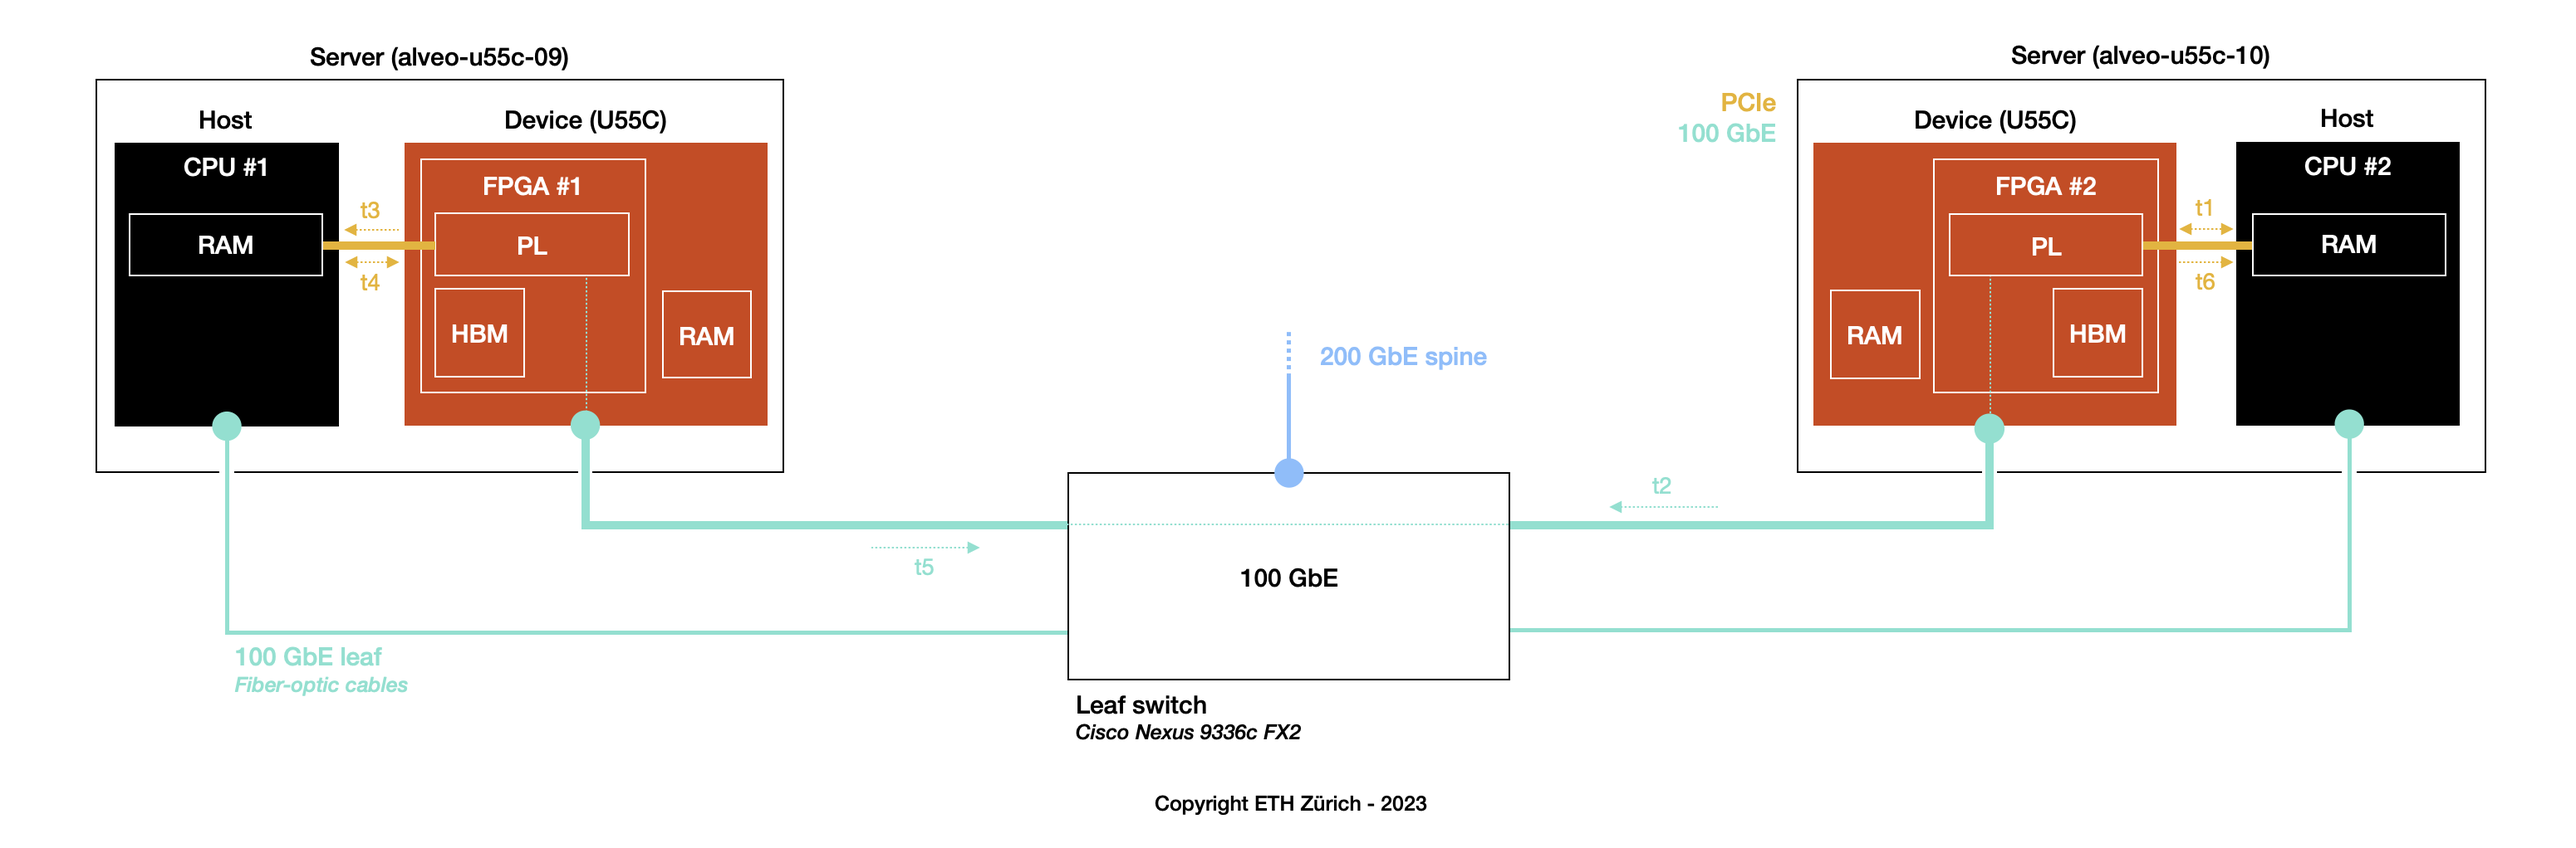
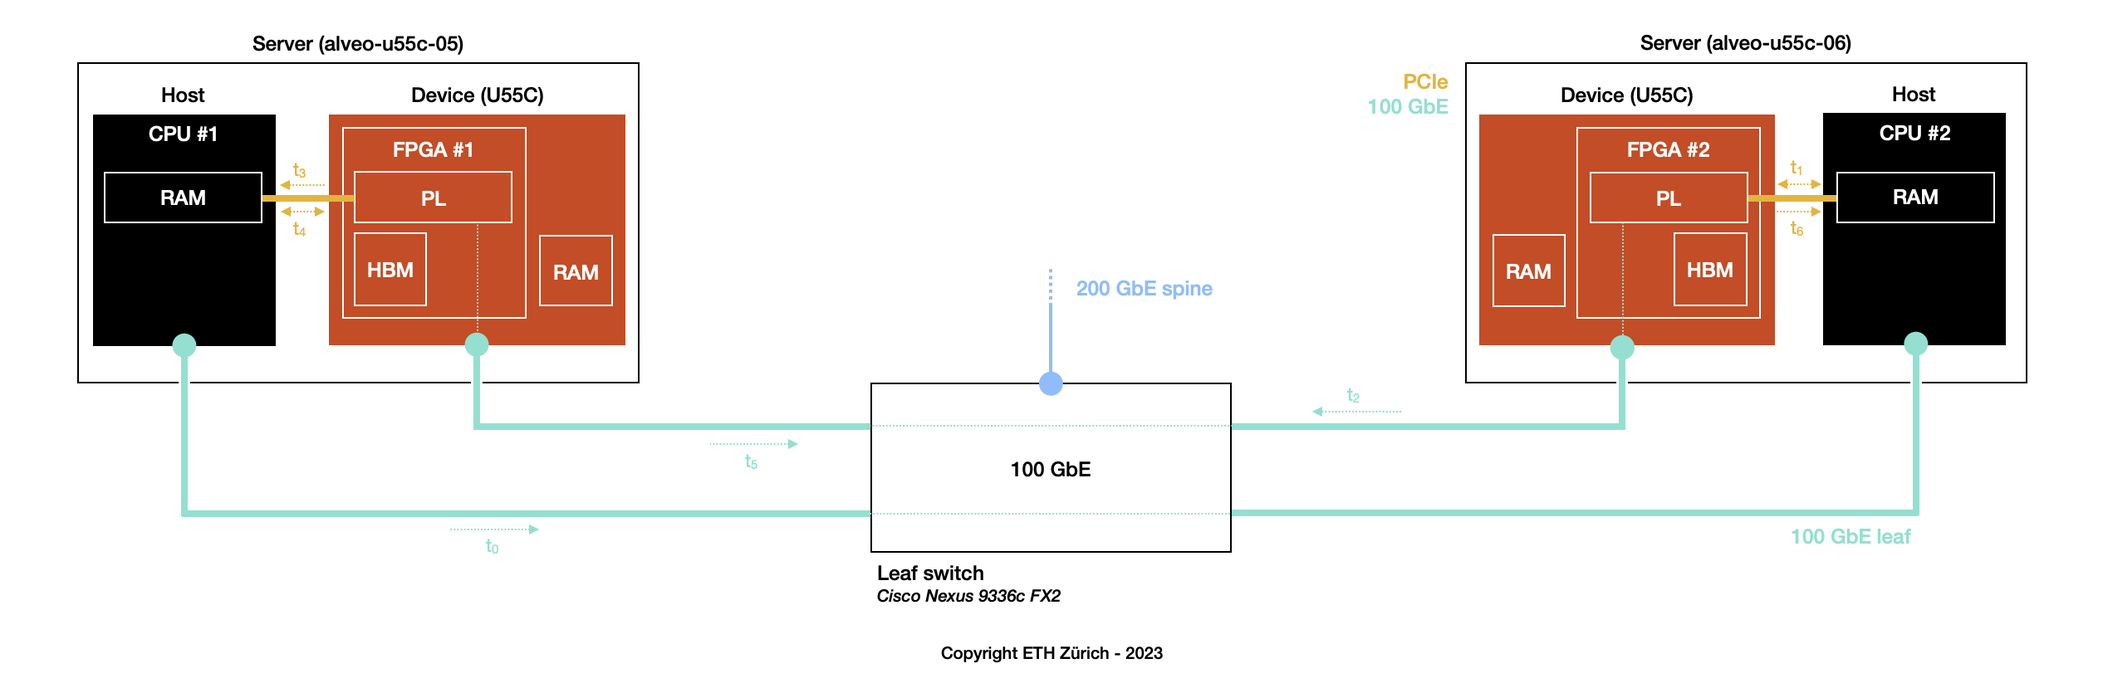
Adding results to docs

diff --git a/examples/sgutil-validate-coyote-perf_rdma_host.md b/examples/sgutil-validate-coyote-perf_rdma_host.md
@@ -15,8 +15,18 @@ In this experiment, we are using [`sgutil validate coyote`](../cli/manual/sgutil
 ![Validating perf_rdma_host with sgutil validate coyote.](./sgutil-validate-coyote-perf_rdma_host.png "Validating perf_rdma_host with sgutil validate coyote.")
 *Validating perf_rdma_host with sgutil validate coyote.*
 
+The test will exchange multiple messages (of different sizes), performing the following steps for each of the message size:
+
+* **t0:** Bla bla bla
+* **t1:** Bla bla bla
+* **t2:** Bla bla bla
+* **t3:** Bla bla bla
+* **t4:** Bla bla bla
+* **t5:** Bla bla bla
+* **t6:** Bla bla bla
+
 ## Results
 In this experiment, we have reserved five servers (alveo-u55c-01 to alveo-u55c-05) where alveo-u55c-01 is the local instance connecting to the remotes. **Please, remember that** ```sgutil validate mpi``` **sets -n (the number of processes to use) to two.** This means that each remote server will execute two copies of the compiled *hello_world.c* MPI program—so the local server receives results from a total of eight processors:
 
-![Validating perf_rdma_host with sgutil validate coyote.](./sgutil-validate-coyote-perf_rdma_host.png "Validating perf_rdma_host with sgutil validate coyote.")
-*Validating perf_rdma_host with sgutil validate coyote.*
+![Results.](./sgutil-validate-coyote-perf_rdma_host_results.png "Results.")
+*Results.*
